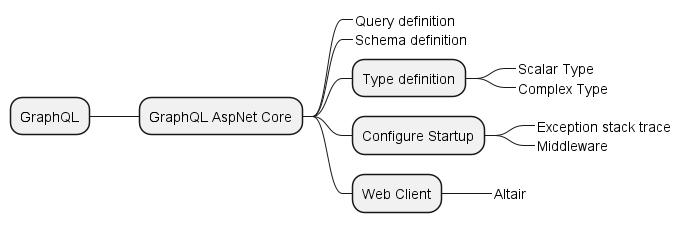
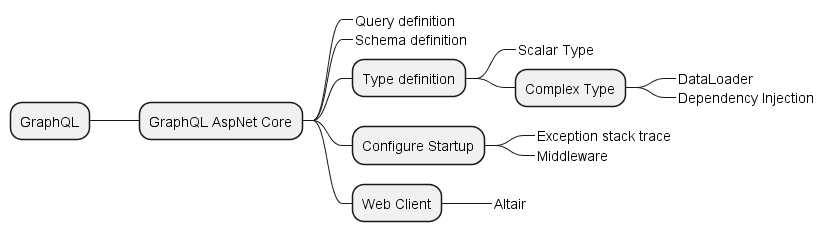
GraphQL AspNet Core data loader

Changed region(s): [[0.0, 0.1502, 0.9853, 0.691], [0.4003, 0.721, 0.7698, 0.9313], [0.4003, 0.0601, 0.6774, 0.1202]]

diff --git a/themes/GraphQL/GraphQL-AspNetCore.md b/themes/GraphQL/GraphQL-AspNetCore.md
@@ -7,7 +7,7 @@ dotnet new sln -o Poc.GraphQL
 dotnet sln add Poc.GraphQL/Poc.GraphQL.Web
 ```
 
-# Nuget dependencies
+# Base nuget packages
 
 ```shell
 dotnet add package GraphQL.Server.All
@@ -148,11 +148,11 @@ public CaseType()
 
 ## Test
 
-At this step you should be able to test your application. See the [[#Configure Startup]] chapter to know how to build application with minimum services to have access.
+At this step you should be able to test your application by configuring `startup` class following the [[#Configure Startup]] chapter with the minimum configuration.
 
 # Complex Type
 
-## Nuget dependencies
+## EF Core nuget package
 
 ```shell
 dotnet add package Microsoft.EntityFrameworkCore
@@ -278,7 +278,7 @@ public sealed class ContractType : ObjectGraphType<Contract>
 
 Next, adapt the existing `CaseType` class with dependencies on contract. 
 
-There the `IServiceProvider` is used via the `RequestServices` property of the `context` to resolve the `IContractRepository` instanciation.
+There the `IServiceProvider` is used via the `RequestServices` property of the `context` to resolve the `IContractRepository` instanciation. Find more information about the [Thread safety with scoped services](https://graphql-dotnet.github.io/docs/getting-started/dependency-injection/#thread-safety-with-scoped-services) which explain why use the `RequestServices` property there.
 
 Then the instance is use to retrieve the list of `Contract` associated with a `Case`, based on the `Id` found in the `Source` property of the `context`. 
 
@@ -299,6 +299,73 @@ Field<ListGraphType<ContractType>>(
     });
 ```
 
+## DataLoader
+
+The `Dataloader` is used to increase data fetching performance by:
+- batch similar fetch operation together,
+- push fetch values in a cache.
+
+### Nuget package
+Add new nuget dependencies
+
+```shell
+dotnet add package GraphQL.DataLoader
+```
+
+### Add service
+Add the `AddDataLoader` service (cf. [Configure Startup])
+
+### Enhance repository
+First add new method in the `IContractRepository` to allow request contract based on a list of case identifiers.
+
+```C#
+Task<ILookup<int, Contract>> GetContractsByCaseIdBatchAsync(IEnumerable<int> caseIds);
+```
+
+You can notice that the method returns a `ILookup` object which allow to have same keys, in contrary of the `IDictionary` type.
+
+Then implements the method in the `ContractRepository`.
+
+```C#
+public async Task<ILookup<int, Contract>> GetContractsByCaseIdBatchAsync(IEnumerable<int> caseIds) =>   
+    (await _context.Contracts.Where(contract => caseIds.Contains(contract.CaseId))  
+        .ToListAsync())  
+        .ToLookup(contract => contract.Id);
+```
+
+### Use `DataLoader`
+Modify the `CaseType` class to retrieve contracts by using the batch feature of the `DataLoader`.
+
+First add a `IDataLoaderContextAccessor` parameter in the constructor, then update the resolve method by using the `GetOrAddCollectionBatchLoader` method.
+
+```C#
+public CaseType(IDataLoaderContextAccessor dataLoaderContextAccessor)  
+{  
+    Name = "Case";  
+    Description = "A case contains information about the customer.";  
+    Field(dossier => dossier.Id).Description("The case unique identifier.");  
+    Field(dossier => dossier.Ref).Description("The case business reference.");  
+  
+    // Enum type  
+    Field<StatusEnumType>("Status", "The status of the case.");  
+  
+    // Contracts  
+    Field<ListGraphType<ContractType>>(  
+        "contracts",  
+        resolve: context =>  
+        {  
+            // Get repository instance  
+            var contractRepository = context.RequestServices?.GetRequiredService<IContractRepository>() ??  
+                                    throw new InvalidOperationException("Unable to retrieve service provider.");  
+              
+            // Use data loader to retrieve data  
+            return dataLoaderContextAccessor.Context  
+                .GetOrAddCollectionBatchLoader<int, Contract>("GetContractsByCaseId", caseIds => contractRepository.GetContractsByCaseIdBatchAsync(caseIds))  
+                .LoadAsync(context.Source.Id);  
+        });  
+}
+```
+
 # Configure Startup
 
 Add snippets behind in the `Startup` class.
@@ -307,11 +374,17 @@ Add snippets behind in the `Startup` class.
 // GraphQL  
 builder.Services    
 .AddGraphQL(qlBuilder => qlBuilder
-		.AddErrorInfoProvider(options => 
-			options.ExposeExceptionStackTrace = builder.Environment.IsDevelopment()
-        .AddHttpMiddleware<ISchema>()  
-        .AddSelfActivatingSchema<PocApplicationSchema>()  
-        .AddSystemTextJson());  
+	// Minimum configuration
+	.AddHttpMiddleware<ISchema>()  
+	.AddSelfActivatingSchema<PocApplicationSchema>()  
+	.AddSystemTextJson()  
+  
+	// See exception stack trace in the client  
+	.AddErrorInfoProvider(options => 
+		options.ExposeExceptionStackTrace = builder.Environment.IsDevelopment())  
+  
+	// Use data loader  
+	.AddDataLoader());  
 
 if (app.Environment.IsDevelopment())
 {
@@ -345,6 +418,16 @@ The method `.AddErrorInfoProvider` allows to manage the `IErrorInfoProvider` ser
 ## Middleware
 
 To create a GraphQL middleware, simply use the `.AddHttpMiddleware<ISchema>()` method.
+
+## DataLoader
+This require to add nuget package and is only needed when you have complex types and you must increase fetching data performance (which is the case in 99,99999%).
+
+```shell
+dotnet add package GraphQL.DataLoader
+```
+
+See the [DataLoader](#DataLoader) chapter for more information.
+
 
 ---
 Tags : #dotNET, #GraphQL

diff --git a/README.md b/README.md
@@ -49,7 +49,7 @@ Les thèmes peuvent être associés à différents profils et différents domain
 
 Les thèmes ne sont pas définis par une liste exhaustive et peuvent être cumulés.
 
-La liste ci-dessous énumère les liens vers les cookbook pour réaliser un POC dans la compétence. Ces documents sont édité en anglais avec le logiciel Obsidian.
+La liste ci-dessous énumère les liens vers les cookbook pour réaliser un POC dans la compétence.
 
 | Thèmes | Tags |
 |--|--|
